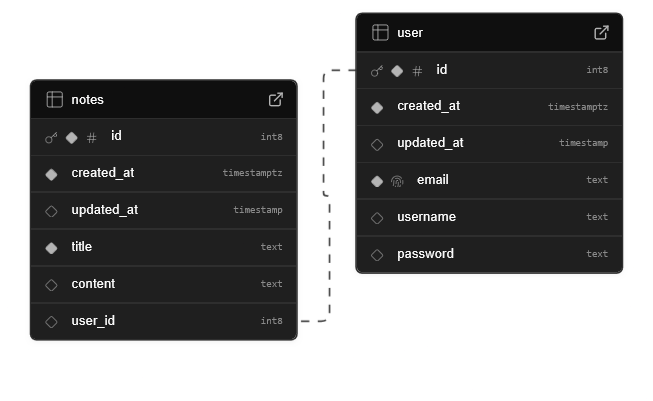
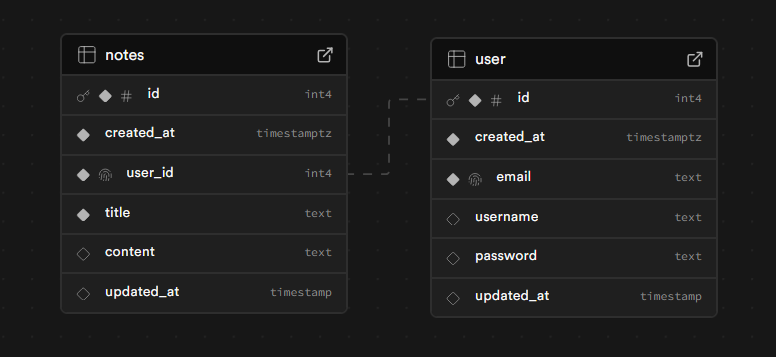
ref test

diff --git a/README.md b/README.md
@@ -42,25 +42,28 @@ git clone
 
 ### `users` Table
 ```sql
-CREATE TABLE users (
-  id BIGINT PRIMARY KEY,
-  email TEXT UNIQUE NOT NULL,
-  username TEXT,
-  password TEXT,  
-  created_at TIMESTAMPTZ DEFAULT NOW(),
-  updated_at TIMESTAMPTZ DEFAULT NULL
+CREATE TABLE public.user (
+  id integer GENERATED ALWAYS AS IDENTITY NOT NULL,
+  created_at timestamp with time zone NOT NULL DEFAULT now(),
+  email text NOT NULL UNIQUE,
+  username text,
+  password text,
+  updated_at timestamp without time zone,
+  CONSTRAINT user_pkey PRIMARY KEY (id)
 );
 ```
 
 ### `notes` Table
 ```sql
-CREATE TABLE notes (
-  id SERIAL PRIMARY KEY,
-  user_id BIGINT REFERENCES users(id) ON DELETE CASCADE,
-  title TEXT NOT NULL,
-  content TEXT,
-  created_at TIMESTAMPTZ DEFAULT NOW(),
-  updated_at TIMESTAMPTZ DEFAULT NULL
+CREATE TABLE public.notes (
+  id integer GENERATED ALWAYS AS IDENTITY NOT NULL,
+  created_at timestamp with time zone NOT NULL DEFAULT now(),
+  user_id integer NOT NULL UNIQUE,
+  title text NOT NULL,
+  content text,
+  updated_at timestamp without time zone,
+  CONSTRAINT notes_pkey PRIMARY KEY (id),
+  CONSTRAINT notes_user_id_fkey FOREIGN KEY (user_id) REFERENCES public.user(id)
 );
 ```
 ![DB schema](https://github.com/Buszewicz/Stiknes/blob/main/DB.png)
